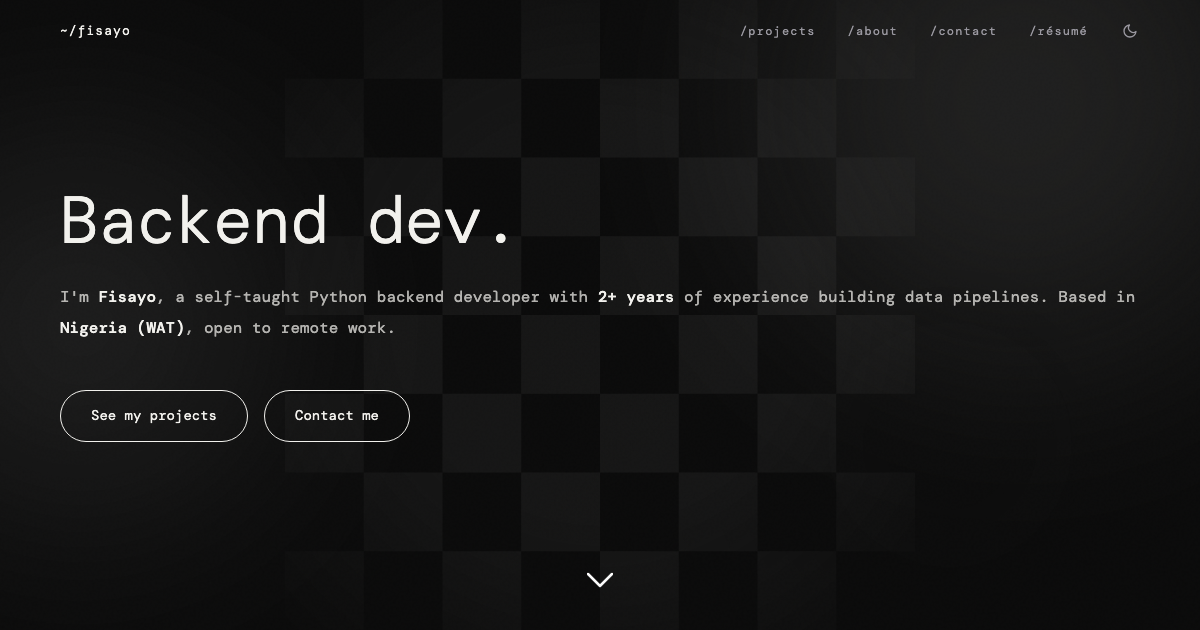
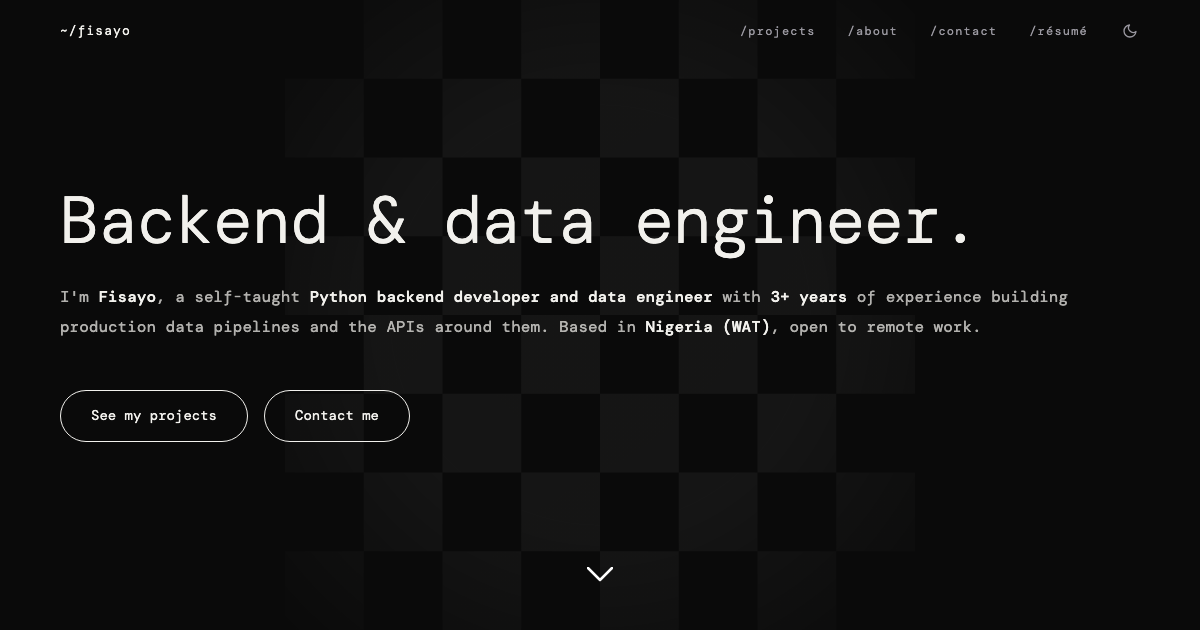
Shorten homepage project cards and update role headline
- Show one-line descriptions on homepage project cards
- Change headline to "Backend & data engineer"
- Put backend before data engineer across the site
- Regenerate link preview image
- Note ferry dataset is live on Google Maps, OSM and Mobility Database
- Rename bc.game and baseball analytics projects
- Ignore private _notes folder

diff --git a/index.html b/index.html
@@ -3,17 +3,17 @@
   <head>
     <meta charset="UTF-8" />
     <meta name="viewport" content="width=device-width, initial-scale=1.0" />
-    <title>Oluwafisayomi Balogun · Data Engineer & Backend Developer</title>
+    <title>Oluwafisayomi Balogun · Backend Developer & Data Engineer</title>
     <meta
       name="description"
-      content="Oluwafisayomi Balogun, self-taught data engineer and backend developer based in Nigeria. Python, data pipelines, APIs."
+      content="Oluwafisayomi Balogun, self-taught backend developer and data engineer based in Nigeria. Python, data pipelines, APIs."
     />
     <meta property="og:type" content="website" />
     <meta property="og:site_name" content="Oluwafisayomi Balogun" />
-    <meta property="og:title" content="Oluwafisayomi Balogun · Data Engineer & Backend Developer" />
+    <meta property="og:title" content="Oluwafisayomi Balogun · Backend Developer & Data Engineer" />
     <meta
       property="og:description"
-      content="Self-taught data engineer and backend developer based in Nigeria. Python, data pipelines, APIs."
+      content="Self-taught backend developer and data engineer based in Nigeria. Python, data pipelines, APIs."
     />
     <meta property="og:url" content="https://fisayo.dev/" />
     <meta property="og:image" content="https://fisayo.dev/og-image.png" />
@@ -21,14 +21,14 @@
     <meta property="og:image:height" content="630" />
     <meta
       property="og:image:alt"
-      content="Oluwafisayomi Balogun's portfolio homepage: Backend dev."
+      content="Oluwafisayomi Balogun's portfolio homepage: Backend &amp; data engineer."
     />
     <meta name="twitter:card" content="summary_large_image" />
     <meta name="twitter:image" content="https://fisayo.dev/og-image.png" />
-    <meta name="twitter:title" content="Oluwafisayomi Balogun · Data Engineer & Backend Developer" />
+    <meta name="twitter:title" content="Oluwafisayomi Balogun · Backend Developer & Data Engineer" />
     <meta
       name="twitter:description"
-      content="Self-taught data engineer and backend developer based in Nigeria. Python, data pipelines, APIs."
+      content="Self-taught backend developer and data engineer based in Nigeria. Python, data pipelines, APIs."
     />
     <link rel="icon" type="image/x-icon" href="favicon.ico" />
     <!-- =============================================
@@ -81,7 +81,7 @@
           ><span class="preloader-command preloader-command-2">echo $ROLE</span>
         </div>
         <div class="preloader-output preloader-output-title">
-          data engineer / backend developer
+          backend developer / data engineer
         </div>
       </div>
     </div>
@@ -189,11 +189,11 @@
     ============================================= -->
     <section class="hero">
       <!-- Main headline -->
-      <h1>Backend dev.</h1>
+      <h1>Backend &amp; data engineer.</h1>
 
       <!-- Sub-paragraph. <strong> inside = emphasised words. -->
       <p class="hero-sub">
-        I'm <strong>Fisayo</strong>, a self-taught <strong>data engineer and Python backend developer</strong>
+        I'm <strong>Fisayo</strong>, a self-taught <strong>Python backend developer and data engineer</strong>
         with <strong>3+ years</strong> of experience building production data
         pipelines and the APIs around them. Based in
         <strong>Nigeria (<span id="lagos-time" hidden
@@ -242,50 +242,28 @@
               Lagos Ferry Map
             </div>
             <div class="project-row-desc">
-              <span class="desc-full">The backend and data pipeline behind
-              Lagos's first GTFS-compliant ferry dataset, submitted to Google
-              Maps, OpenStreetMap and the Mobility Database. A
-              Node/Express/Drizzle API on PostgreSQL powers public-facing
-              crowdsourced submission forms for jetties and routes. A parallel
-              Python toolchain, containerised with Docker on Cloud Run,
-              publishes the GTFS feed, syncs route geometry from OSM/GeoJSON
-              sources, and runs automated data-quality checks against the live
-              database.</span>
-              <span class="desc-short">Backend and data pipeline behind
-              Lagos's first GTFS ferry dataset, now on Google Maps,
-              OpenStreetMap and the Mobility Database. A Node/Postgres API
-              collects crowdsourced jetty and route data, and a Python
-              toolchain on Cloud Run publishes the feed and runs automated
-              quality checks.</span>
+              Backend and data pipeline behind Lagos's first GTFS ferry
+              dataset, now on Google Maps, OpenStreetMap and the Mobility
+              Database.
             </div>
             <div class="project-row-stack">
-              <span class="desc-full">Node.js · Express · TypeScript · Drizzle ORM · PostgreSQL · Python · Docker · Cloud Run · GTFS · OpenStreetMap</span>
-              <span class="desc-short">Node.js · PostgreSQL · Python · Docker · GTFS</span>
+              Node.js · PostgreSQL · Python · Docker · GTFS
             </div>
           </div>
         </a>
 
         <a
-          href="mailto:hello@fisayo.dev?subject=Demo%20request%3A%20Sports%20analytics%20pipeline"
+          href="mailto:hello@fisayo.dev?subject=Demo%20request%3A%20Baseball%20analytics%20pipeline"
           class="project-row project-row--mail reveal"
         >
           <div class="project-row-main">
             <div class="project-row-title">
-              Sports Analytics Automation Pipeline
+              Baseball Analytics Automation Pipeline
             </div>
             <div class="project-row-desc">
-              <span class="desc-full">A production data pipeline that automates a full
-              sports-analytics workflow. It scrapes live stats from five
-              bot-protected sources, joins them with fuzzy name-matching, and
-              runs a 150-point scoring model, writing ranked results back to
-              Google Sheets. A non-technical client triggers the whole run from
-              a spreadsheet button, turning a multi-hour daily process into a
-              5-minute one-click run.</span>
-              <span class="desc-short">A production pipeline that scrapes five
-              bot-protected sources, matches them up and scores them with a
-              150-point model, then writes the rankings to Google Sheets. A
-              multi-hour daily process is now a one-click, 5-minute run.</span>
-              <strong>Click through to request a live demo.</strong>
+              Turns a multi-hour daily baseball-analytics process into a
+              one-click, 5-minute run.
+              <strong>Click through to request a demo.</strong>
             </div>
             <div class="project-row-stack">
               Python · Playwright · pandas · Google Sheets API · GitHub Actions
@@ -299,13 +277,10 @@
           class="project-row reveal"
         >
           <div class="project-row-main">
-            <div class="project-row-title">Sports Bet Automation</div>
+            <div class="project-row-title">bc.game Sports Bet Automation</div>
             <div class="project-row-desc">
-              Reverse-engineered an undocumented REST API to place single and
-              combo bets programmatically on bc.game.
-              <span class="desc-full">Implemented JWT auth, input validation,
-              and robust error handling, reducing manual execution to a single
-              function call.</span>
+              Places single and combo bets on bc.game through a
+              reverse-engineered API.
             </div>
             <div class="project-row-stack">
               Python · REST APIs · Chrome DevTools
@@ -321,11 +296,8 @@
           <div class="project-row-main">
             <div class="project-row-title">Exchange Rate Telegram Bot</div>
             <div class="project-row-desc">
-              A live Telegram bot that fetches currency exchange rates on demand
-              and sends a daily rate broadcast via an in-process scheduler.
-              <span class="desc-full">Storage swaps automatically between
-              PostgreSQL in production and a local JSON file in development,
-              behind one shared interface.</span>
+              Telegram bot for on-demand exchange rates and a daily rate
+              broadcast.
             </div>
             <div class="project-row-stack">
               Python · aiogram · PostgreSQL (Neon) · APScheduler · Fly.io
@@ -351,7 +323,7 @@
       <!-- Bio text -->
       <div class="about-text reveal">
         <p>
-          Hey, I'm Fisayo, <strong>a self-taught</strong> data engineer and backend developer
+          Hey, I'm Fisayo, <strong>a self-taught</strong> backend developer and data engineer
           specializing in Python, data pipelines, and process automation. I
           hold a B.Sc. in Anatomy I've never used.
         </p>

diff --git a/projects/index.html b/projects/index.html
@@ -4,13 +4,13 @@
     <meta charset="UTF-8" />
     <meta name="viewport" content="width=device-width, initial-scale=1.0" />
     <title>Projects · Oluwafisayomi Balogun</title>
-    <meta name="description" content="All projects by Oluwafisayomi Balogun, self-taught data engineer and backend developer based in Nigeria. Python, data pipelines, APIs." />
+    <meta name="description" content="All projects by Oluwafisayomi Balogun, self-taught backend developer and data engineer based in Nigeria. Python, data pipelines, APIs." />
     <meta property="og:type" content="website" />
     <meta property="og:site_name" content="Oluwafisayomi Balogun" />
     <meta property="og:title" content="Projects · Oluwafisayomi Balogun" />
     <meta
       property="og:description"
-      content="All projects by Oluwafisayomi Balogun, self-taught data engineer and backend developer based in Nigeria. Python, data pipelines, APIs."
+      content="All projects by Oluwafisayomi Balogun, self-taught backend developer and data engineer based in Nigeria. Python, data pipelines, APIs."
     />
     <meta property="og:url" content="https://fisayo.dev/projects" />
     <meta property="og:image" content="https://fisayo.dev/og-image.png" />
@@ -18,14 +18,14 @@
     <meta property="og:image:height" content="630" />
     <meta
       property="og:image:alt"
-      content="Oluwafisayomi Balogun's portfolio homepage: Backend dev."
+      content="Oluwafisayomi Balogun's portfolio homepage: Backend &amp; data engineer."
     />
     <meta name="twitter:card" content="summary_large_image" />
     <meta name="twitter:image" content="https://fisayo.dev/og-image.png" />
     <meta name="twitter:title" content="Projects · Oluwafisayomi Balogun" />
     <meta
       name="twitter:description"
-      content="All projects by Oluwafisayomi Balogun, self-taught data engineer and backend developer based in Nigeria. Python, data pipelines, APIs."
+      content="All projects by Oluwafisayomi Balogun, self-taught backend developer and data engineer based in Nigeria. Python, data pipelines, APIs."
     />
     <link rel="icon" type="image/x-icon" href="/favicon.ico" />
     <!-- =============================================
@@ -122,7 +122,7 @@
             <div class="project-row-title">Lagos Ferry Map</div>
             <div class="project-row-desc">
               The backend and data pipeline behind Lagos's first
-              GTFS-compliant ferry dataset, submitted to Google Maps,
+              GTFS-compliant ferry dataset, now on Google Maps,
               OpenStreetMap and the Mobility Database. A Node/Express/Drizzle
               API on PostgreSQL powers public-facing crowdsourced submission
               forms for jetties and routes. A parallel Python toolchain,
@@ -134,18 +134,18 @@
           </div>
         </a>
 
-        <a href="mailto:hello@fisayo.dev?subject=Demo%20request%3A%20Sports%20analytics%20pipeline" class="project-row project-row--mail reveal">
+        <a href="mailto:hello@fisayo.dev?subject=Demo%20request%3A%20Baseball%20analytics%20pipeline" class="project-row project-row--mail reveal">
           <div class="project-row-main">
-            <div class="project-row-title">Sports Analytics Automation Pipeline</div>
+            <div class="project-row-title">Baseball Analytics Automation Pipeline</div>
             <div class="project-row-desc">
               A production
-              data pipeline that automates a full sports-analytics workflow.
+              data pipeline that automates a full baseball-analytics workflow.
               It scrapes live stats from five bot-protected sources,
               joins them with fuzzy name-matching, and runs a 150-point scoring
               model, writing ranked results back to Google Sheets. A
               non-technical client triggers the whole run from a spreadsheet
               button, turning a multi-hour daily process into a 5-minute
-              one-click run. <strong>Click through to request a live demo.</strong>
+              one-click run. <strong>Click through to request a demo.</strong>
             </div>
             <div class="project-row-stack">Python · Playwright · pandas · Google Sheets API · GitHub Actions</div>
           </div>
@@ -153,7 +153,7 @@
 
         <a href="https://github.com/oluwafisayomi-balogun/bet-placer-bc-fun" target="_blank" class="project-row reveal">
           <div class="project-row-main">
-            <div class="project-row-title">Sports Bet Automation</div>
+            <div class="project-row-title">bc.game Sports Bet Automation</div>
             <div class="project-row-desc">
               Reverse-engineered an undocumented REST API to place single and
               combo bets programmatically on bc.game. Implemented JWT auth,

diff --git a/css/styles.css b/css/styles.css
@@ -1019,12 +1019,6 @@ section {
   font-weight: 500;
 }
 
-/* Homepage rows carry a full and a short version of their copy; the
-   short one replaces the full one on small screens (see media query). */
-.desc-short {
-  display: none;
-}
-
 /* Tech stack line, under the description. */
 .project-row-stack {
   display: block;
@@ -1310,12 +1304,6 @@ footer span {
   }
   #about {
     padding-top: 35px;
-  }
-  .desc-full {
-    display: none;
-  }
-  .desc-short {
-    display: inline;
   }
 
   .page-heading {
